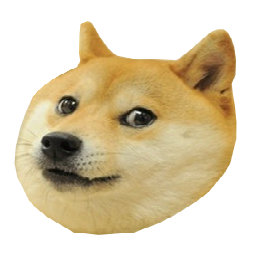
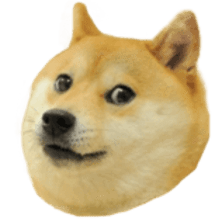
fully implemented waves, difficulty curve, updated readme to reflect curve, cleaned up doge.png

diff --git a/functions.cpp b/functions.cpp
@@ -57,9 +57,14 @@ void mainMenu(bool& startGame, Game& game, Objects& Player, Objects& Background,
     }
 }
 
-void gameRun(bool& startGame, bool& failedGame, Game& game, Objects& Background, Objects& Player, Objects& Obstacles, Objects& Coins, int score, sf::Clock& clock, sf::Time& dt)
+void gameRun(bool& startGame, bool& failedGame, Game& game, Objects& Background, Objects& Player, Objects& obstacleOne, Objects& obstacleTwo, Objects& obstacleThree, Objects& Coins, int score, sf::Clock& clock, sf::Time& dt)
 {
-    Obstacles.initObstacles("assets/villiandoge.png", obstRect);
+    obstacleOne.initObstacles("assets/doge.png", obstRect);
+    obstacleTwo.initObstacles("assets/villiandoge.png", obstRect);
+    obstacleTwo.velocity.x = -4;
+    obstacleThree.initObstacles("assets/finalvilliandoge.png", obstRect);
+    obstacleThree.velocity.x = -6;
+
     Player.initPlayer("assets/superCatAnimation.png", playerRect);
 
     sf::Text scoreText;
@@ -73,6 +78,8 @@ void gameRun(bool& startGame, bool& failedGame, Game& game, Objects& Background,
 
     bool coinCollision = false;
     bool obstCollision = false;
+    
+    int makeItHardToWin = 2000;
 
     dt = clock.restart();
     while(startGame == true && failedGame == false)
@@ -91,18 +98,35 @@ void gameRun(bool& startGame, bool& failedGame, Game& game, Objects& Background,
             scoreText.setString("Score: " + std::to_string(score));
             game.drawText(scoreText);
 
-            sf::FloatRect obstBounds = Obstacles.obstHitBox.getGlobalBounds();
+            sf::FloatRect obstBoundsOne = obstacleOne.obstHitBox.getGlobalBounds();
+            sf::FloatRect obstBoundsTwo = obstacleTwo.obstHitBox.getGlobalBounds();
+            sf::FloatRect obstBoundsThree = obstacleThree.obstHitBox.getGlobalBounds();
+
             sf::FloatRect playerBounds = Player.player.getGlobalBounds();
             Coins.initCoins(WINDOW_SIZE_X, WINDOW_SIZE_Y);
             
-            Obstacles.moveObstacles(game.window, WINDOW_SIZE_X, WINDOW_SIZE_Y);
+            obstacleOne.moveObstacles(game.window, WINDOW_SIZE_X, WINDOW_SIZE_Y);
+            
+            
+            if(score>=500)
+                obstacleTwo.moveObstacles(game.window, WINDOW_SIZE_X, WINDOW_SIZE_Y);
+            if(score>=1500)
+                obstacleThree.moveObstacles(game.window, WINDOW_SIZE_X, WINDOW_SIZE_Y);
+            if(score>=makeItHardToWin){
+                obstacleOne.velocity.x *= 1.3;
+                obstacleTwo.velocity.x *= 1.3;
+                obstacleThree.velocity.x *= 1.3;
+                makeItHardToWin += 500;
+            }
+
+
             Coins.updateCoins(game.window, WINDOW_SIZE_X, WINDOW_SIZE_Y, score, playerBounds);
             Player.animateSprite();
             Coins.animateSprite();     
 
             Player.movePlayer(game.window, WINDOW_SIZE_Y);
             
-            if (playerBounds.intersects(obstBounds) == true){
+            if ((playerBounds.intersects(obstBoundsOne) || playerBounds.intersects(obstBoundsTwo) || playerBounds.intersects(obstBoundsThree)) == true){
                 obstCollision = true;
                 failedGame = true;
             }

diff --git a/header.h b/header.h
@@ -18,7 +18,7 @@ const sf::IntRect buttonRect(167, 310, 405, 150); // Sprite sheet size: 2000x564
 const sf::IntRect obstRect(0,0,222,222); // Sprite sheet size: 222x222;
 
 void mainMenu(bool& startGame, Game& game, Objects& Player, Objects& Background, Objects startButton, sf::Time& dt, sf::Clock clock);
-void gameRun(bool& startGame, bool& failedGame, Game& game, Objects& Background, Objects& Player, Objects& Obstacles, Objects& Coins, int score, sf::Clock& clock, sf::Time& dt);
+void gameRun(bool& startGame, bool& failedGame, Game& game, Objects& Background, Objects& Player, Objects& obstacleOne, Objects& obstacleTwo, Objects& obstacleThree, Objects& Coins, int score, sf::Clock& clock, sf::Time& dt);
 void deathScreen(bool& startGame, bool& failedGame, Game& game, Objects& Background, Objects startButton, sf::Time dt, sf::Clock clock);
 
 

diff --git a/main.cpp b/main.cpp
@@ -8,7 +8,7 @@ int main()
     Objects Background;
     Objects Player;
     Objects Coin("assets/goldcoin1.png", coinRect, WINDOW_SIZE_X, WINDOW_SIZE_Y);
-    Objects Obstacle;
+    Objects obstacleOne, obstacleTwo, obstacleThree;
     Objects startButton;
     
     int score = 0;
@@ -33,7 +33,7 @@ int main()
         if(startGame == true && failedGame == false)
         {
             deltaTime += clock.restart();
-            gameRun(startGame, failedGame, game, Background, Player, Obstacle, Coin, score, clock, deltaTime);
+            gameRun(startGame, failedGame, game, Background, Player, obstacleOne, obstacleTwo, obstacleThree, Coin, score, clock, deltaTime);
         }
         if(failedGame)
         {

diff --git a/README.md b/README.md
@@ -3,5 +3,15 @@ A unique jetpack joyride style game
 
 Compile:  g++ -std=c++11 *.cpp -o supercatJoyglide -lsfml-graphics -lsfml-window -lsfml-system
 
-Run:      ./jetpackCatride
+Run:      ./supercatJoyglide
 
+3, 4, 6
+
+## Difficulty
+Score 0-499: Doge w/ velocity of 3
+
+Score 500-1499: Doge w/ velocity of 3 & Villian Doge w/ velocity of 4
+
+Score 1500-1999: Doge w/ velocity of 3, Villian Doge w/ velocity of 4, Final Villian Doge w/ velocity of 6
+
+Score 2000+: Velocity of all obstacles is multiplied by 1.3 for every 500 score increment over 2000
